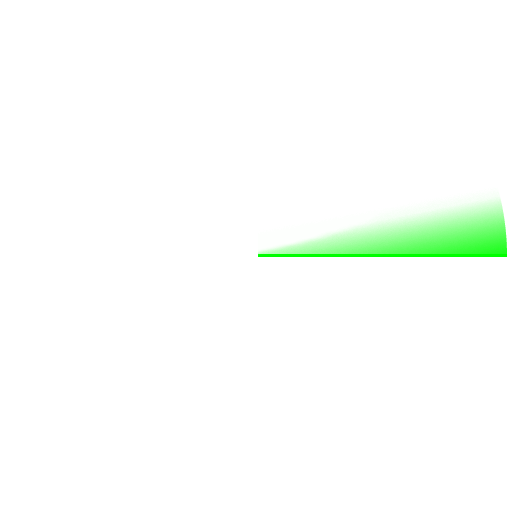
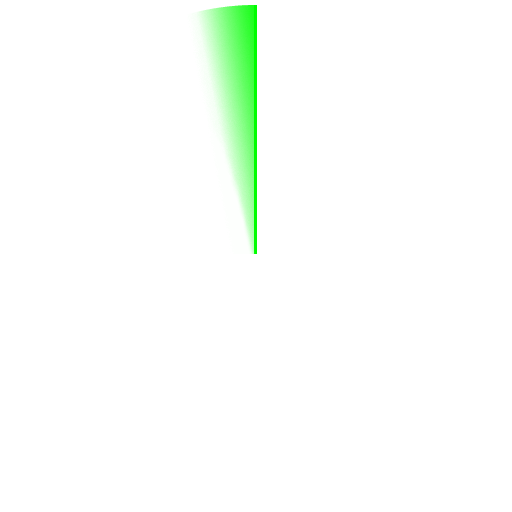
update
+ get cartesian from polar utils OK

Changed region(s): [[0.375, 0.0, 1.0, 0.5]]

diff --git a/iss2022/RadarSystem22/radarGUI/src/stage.c b/iss2022/RadarSystem22/radarGUI/src/stage.c
@@ -26,6 +26,7 @@ void getCartesianFromPolarCoords(int radius, int angle, int* x, int* y);
 
 
 static Entity* radar;
+static Entity* radarCoordinates;
 Entity* radarLine;
 static SDL_Texture* radarTexture;
 static SDL_Texture* radarCoordinateTexture;
@@ -53,7 +54,15 @@ static void initRadar()
 	radar->texture = radarTexture;
 	SDL_QueryTexture(radar->texture, NULL, NULL, &radar->w, &radar->h);
 	radar->x = WINDOW_WIDTH / 2;
-	radar->y = WINDOW_HEIGHT - radar->h / 2;
+	radar->y = WINDOW_HEIGHT - BOTTOM_OFFSET - radar->h / 2;
+
+	// Init radarCoordinates
+	radarCoordinates = malloc(sizeof(Entity));
+	memset(radarCoordinates, 0, sizeof(Entity));
+	radarCoordinates->texture = radarCoordinateTexture;
+	SDL_QueryTexture(radarCoordinates->texture, NULL, NULL, &radarCoordinates->w, &radarCoordinates->h);
+	radarCoordinates->x = WINDOW_WIDTH / 2;
+	radarCoordinates->y = WINDOW_HEIGHT - BOTTOM_OFFSET - radar->h / 2;
 
 	// Init radarLine
 	radarLine = malloc(sizeof(Entity));
@@ -61,8 +70,8 @@ static void initRadar()
 	radarLine->texture = radarLineTexture;
 	SDL_QueryTexture(radarLine->texture, NULL, NULL, &radarLine->w, &radarLine->h);
 	radarLine->x = WINDOW_WIDTH / 2;
-	radarLine->y = WINDOW_HEIGHT - radarLine->h / 2;
-	radarLine->angle = -90;
+	radarLine->y = WINDOW_HEIGHT - BOTTOM_OFFSET - radarLine->h / 2;
+	//radarLine->angle = 0;
 }
 
 void initStage()
@@ -79,7 +88,7 @@ void initStage()
 
 	// Load textures
 	radarTexture = loadTexture("gfx/radar.png");
-	radarCoordinateTexture = loadTexture("gfx/coordinates.png");
+	radarCoordinateTexture = loadTexture("gfx/coordinates2.png");
 	radarLineTexture = loadTexture("gfx/radar_line.png");
 	obstacleTexture = loadTexture("gfx/obstacle2.png");
 	SDL_SetTextureBlendMode(obstacleTexture, SDL_BLENDMODE_BLEND);
@@ -164,11 +173,11 @@ static void doRadar()
 		// Check if the angle of the detected obstacle equals the current radarLine angle
 		if (radarLine->angle == d->angle)
 		{
-			// show the obstacle only if it's between the bounds
+			// Show the obstacle only if it's between the bounds
 			if (d->distance >= MIN_D && d->distance <= MAX_D)
 			{
 				// Debug / Test
-				int x2, y2, l;
+				/*int x2, y2, l;
 				double a;
 				l = radar->w / MAX_D;
 				a = radarLine->angle * (double)(PI / 180.0);
@@ -178,12 +187,11 @@ static void doRadar()
 
 				getCartesianFromPolarCoords(radarLine->angle, radar->w / MAX_D, &x, &y);
 
-				spawnObstacle(radar->x + x * d->distance, radar->y + y * d->distance);
+				spawnObstacle(radar->x + x * d->distance, radar->y + y * d->distance);*/
 
-				//spawnObstacle(radar->w / MAX_D * d->distance, d->angle);
+				spawnObstacle(radar->w / MAX_D * d->distance, d->angle);
 				
-				
-				printf("%d, %d\n", radar->x + x * d->distance, radar->y + y * d->distance); // Debug / Test
+				//printf("%d, %d\n", radar->x + x * d->distance, radar->y + y * d->distance); // Debug / Test
 				// spawnText(?)
 				playSound(SND_OBJ_DETECTED, CH_OBJ);
 			}
@@ -199,10 +207,9 @@ static void doRadar()
 		prev = d;
 	}
 	
-	
-	if (app.susDetected && radarLine->angle == 360)
+	if (app.susDetected && radarLine->angle == 90)
 	{
-		spawnSus(radar->x, radar->y);
+		spawnSus(radar->x + radar->w / 4, radar->y);
 		playSound(SND_SUS_DETECTED, CH_SUS);
 	}
 }
@@ -279,8 +286,8 @@ static void spawnObstacle(int distance, int angle)
 	stage.obstacleTail->next = o;
 	stage.obstacleTail = o;
 
-	o->x = x;
-	o->y = y;
+	o->x = x + radar->x;
+	o->y = y + radar->y;
 	o->texture = obstacleTexture;
 
 	o->alpha = SDL_ALPHA_OPAQUE;
@@ -300,7 +307,7 @@ static void spawnSus(int x, int y)
 	stage.obstacleTail->next = s;
 	stage.obstacleTail = s;
 
-	s->x = x + radar->w / 4;
+	s->x = x;
 	s->y = y;
 
 	s->texture = susTexture;
@@ -357,17 +364,17 @@ static void draw()
 
 static void drawRadar()
 {
-	blit(radarTexture, radar->x, radar->y, 1);
+	blit(radar->texture, radar->x, radar->y, 1);
 }
 
 static void drawRadarCoordinates()
 {
-	blit(radarCoordinateTexture, radar->x, radar->y, 1);
+	blit(radarCoordinates->texture, radarCoordinates->x, radarCoordinates->y, 1);
 }
 
 static void drawRadarLine()
 {
-	blitRotated(radarLineTexture, radarLine->x, radarLine->y, 1, radarLine->angle);
+	blitRotated(radarLine->texture, radarLine->x, radarLine->y, 1, radarLine->angle);
 }
 
 static void drawObstacles()
@@ -404,13 +411,11 @@ static void drawText()
 	}
 }
 
-void getCartesianFromPolarCoords(int distance, int angle, int* x, int* y)
+void getCartesianFromPolarCoords(int radius, int angle, int* x, int* y)
 {
 	double a;
 
-	a = angle * (double)(PI / 180.0);
-	*x = (int) (cos(a) * distance);
-	*y = (int) (sin(a) * distance);
-	
-	printf("l: %d, a: %f, x: %d, y: %d - angle: %d\n", distance, a, (*x), (*y), angle); // Debug / Test
+	a = (angle - 90) * (double)(PI / 180.0);
+	*x = (cos(a) * radius);
+	*y = (sin(a) * radius);
 }

diff --git a/iss2022/RadarSystem22/radarClient/goRadarClient/main.go b/iss2022/RadarSystem22/radarClient/goRadarClient/main.go
@@ -5,7 +5,6 @@ import (
 	"net"
 	"os"
 	"strconv"
-	"time"
 )
 
 type Input struct {
@@ -32,7 +31,7 @@ func connection_handler() {
 	}
 
 	// test
-	i, j := 0, 0
+	/*i, j := 0, 0
 	for {
 		i++
 		j++
@@ -52,7 +51,7 @@ func connection_handler() {
 		}
 
 		time.Sleep(time.Duration(time.Millisecond * 30))
-	}
+	}*/
 
 	defer conn.Close()
 	for !exit {

diff --git a/iss2022/RadarSystem22/radarGUI/src/defs.h b/iss2022/RadarSystem22/radarGUI/src/defs.h
@@ -3,8 +3,9 @@
 
 #define WINDOW_TITLE		"Radar GUI"
 
-#define WINDOW_WIDTH		520
-#define WINDOW_HEIGHT		600
+#define WINDOW_WIDTH		600
+#define WINDOW_HEIGHT		650
+#define BOTTOM_OFFSET		20
 
 #define FPS					60
 
